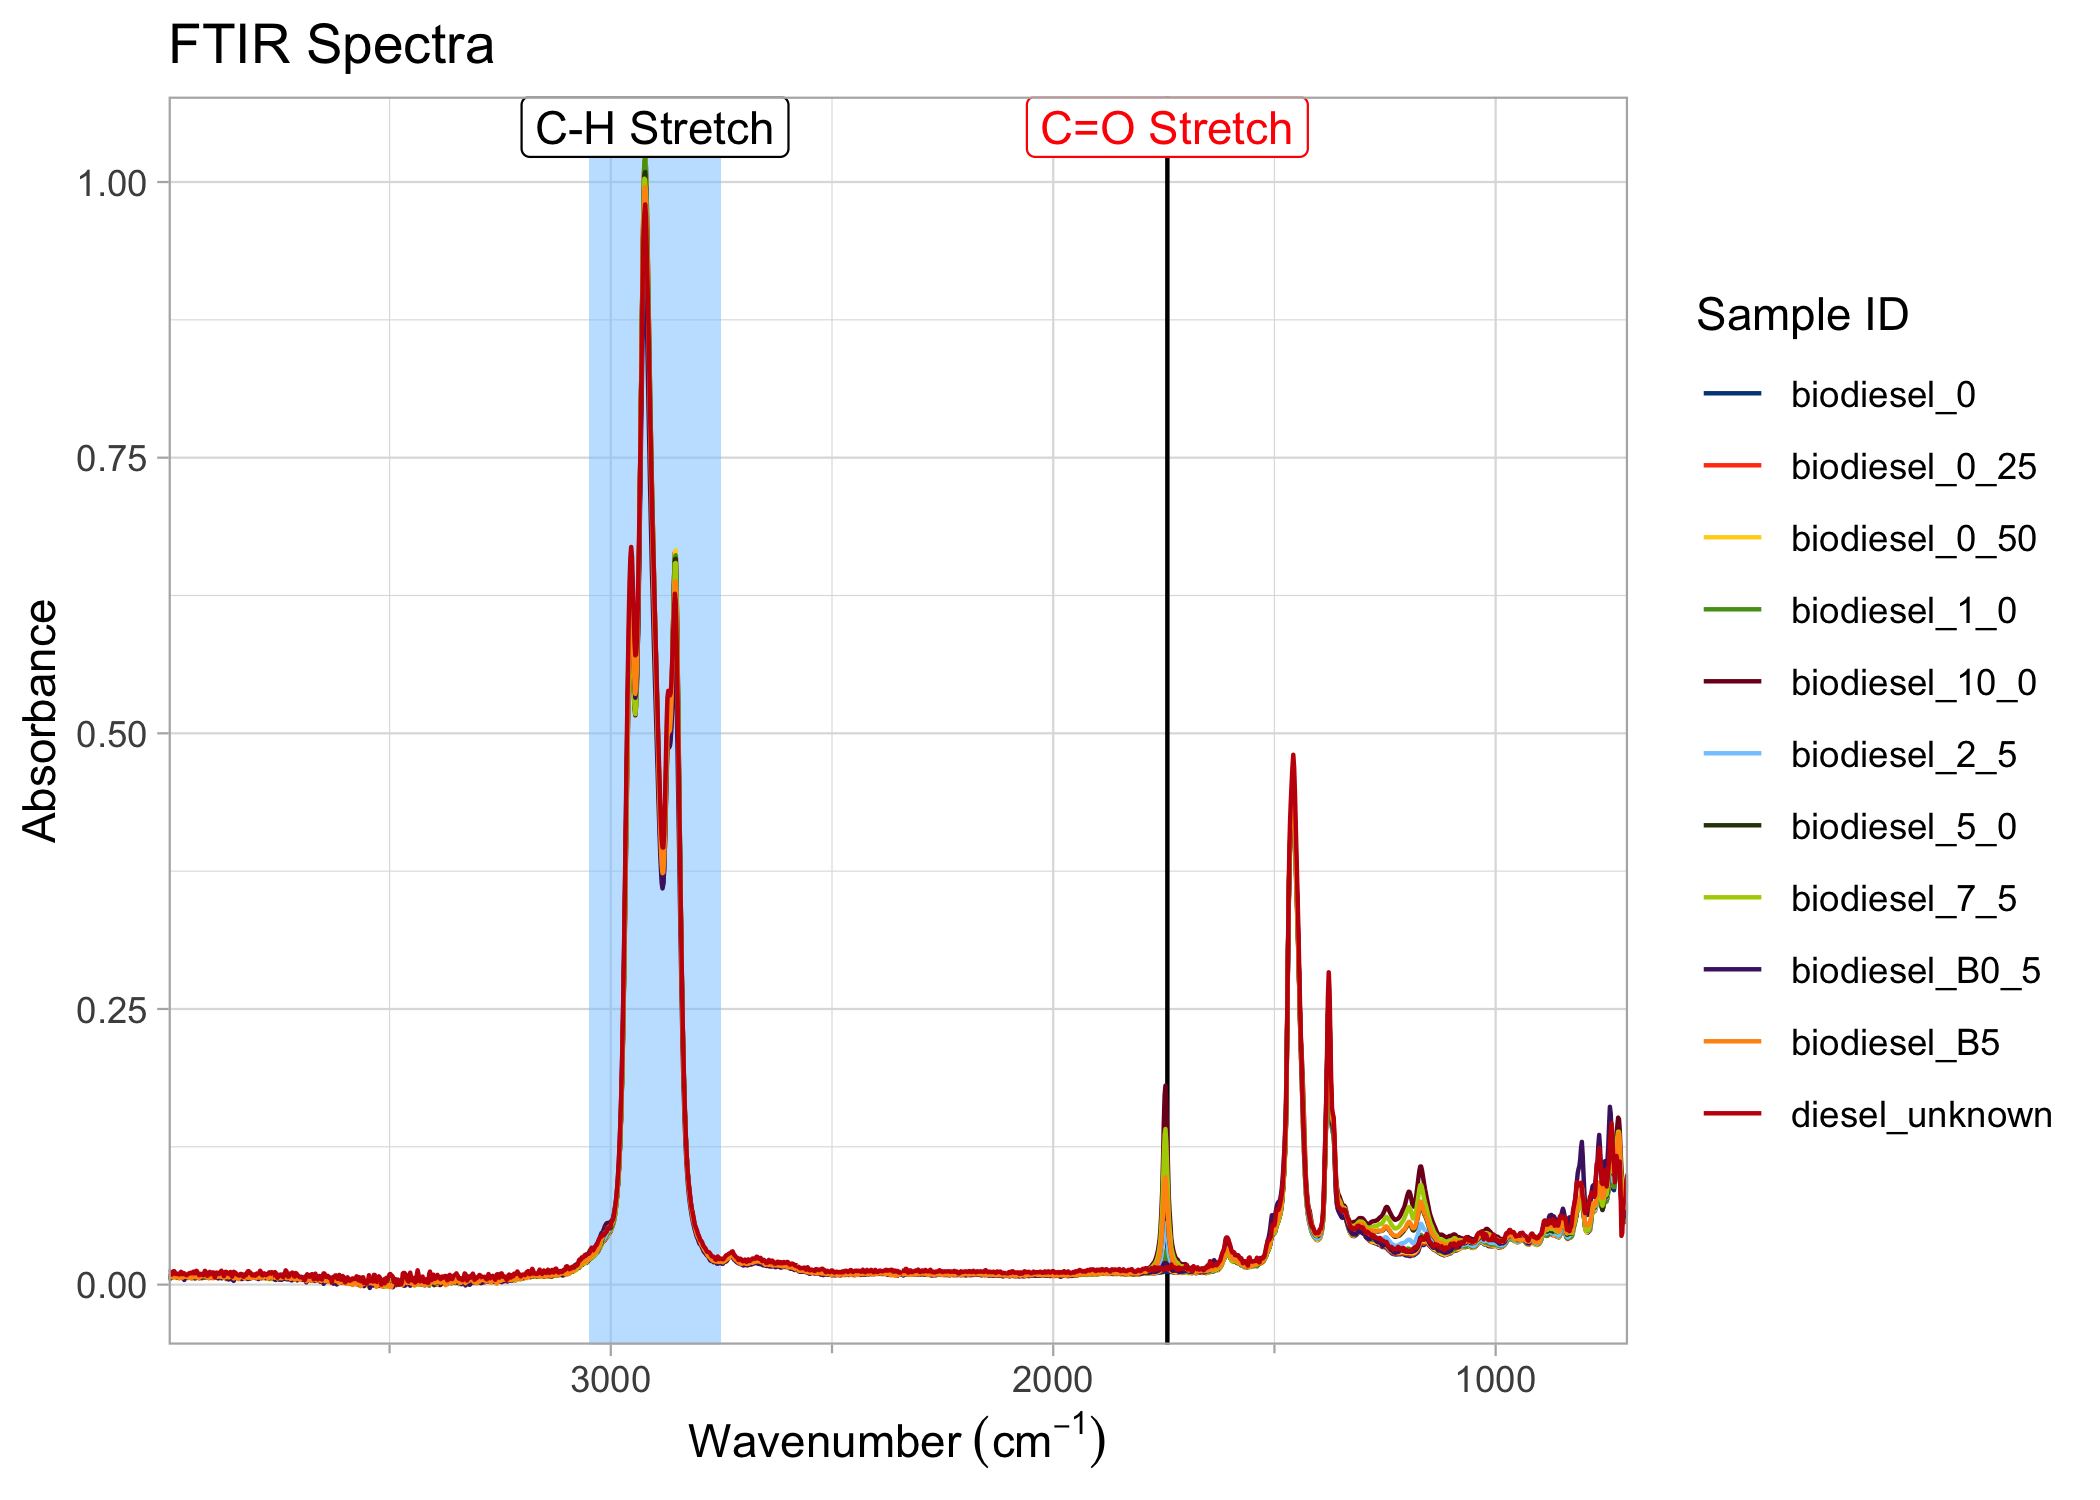
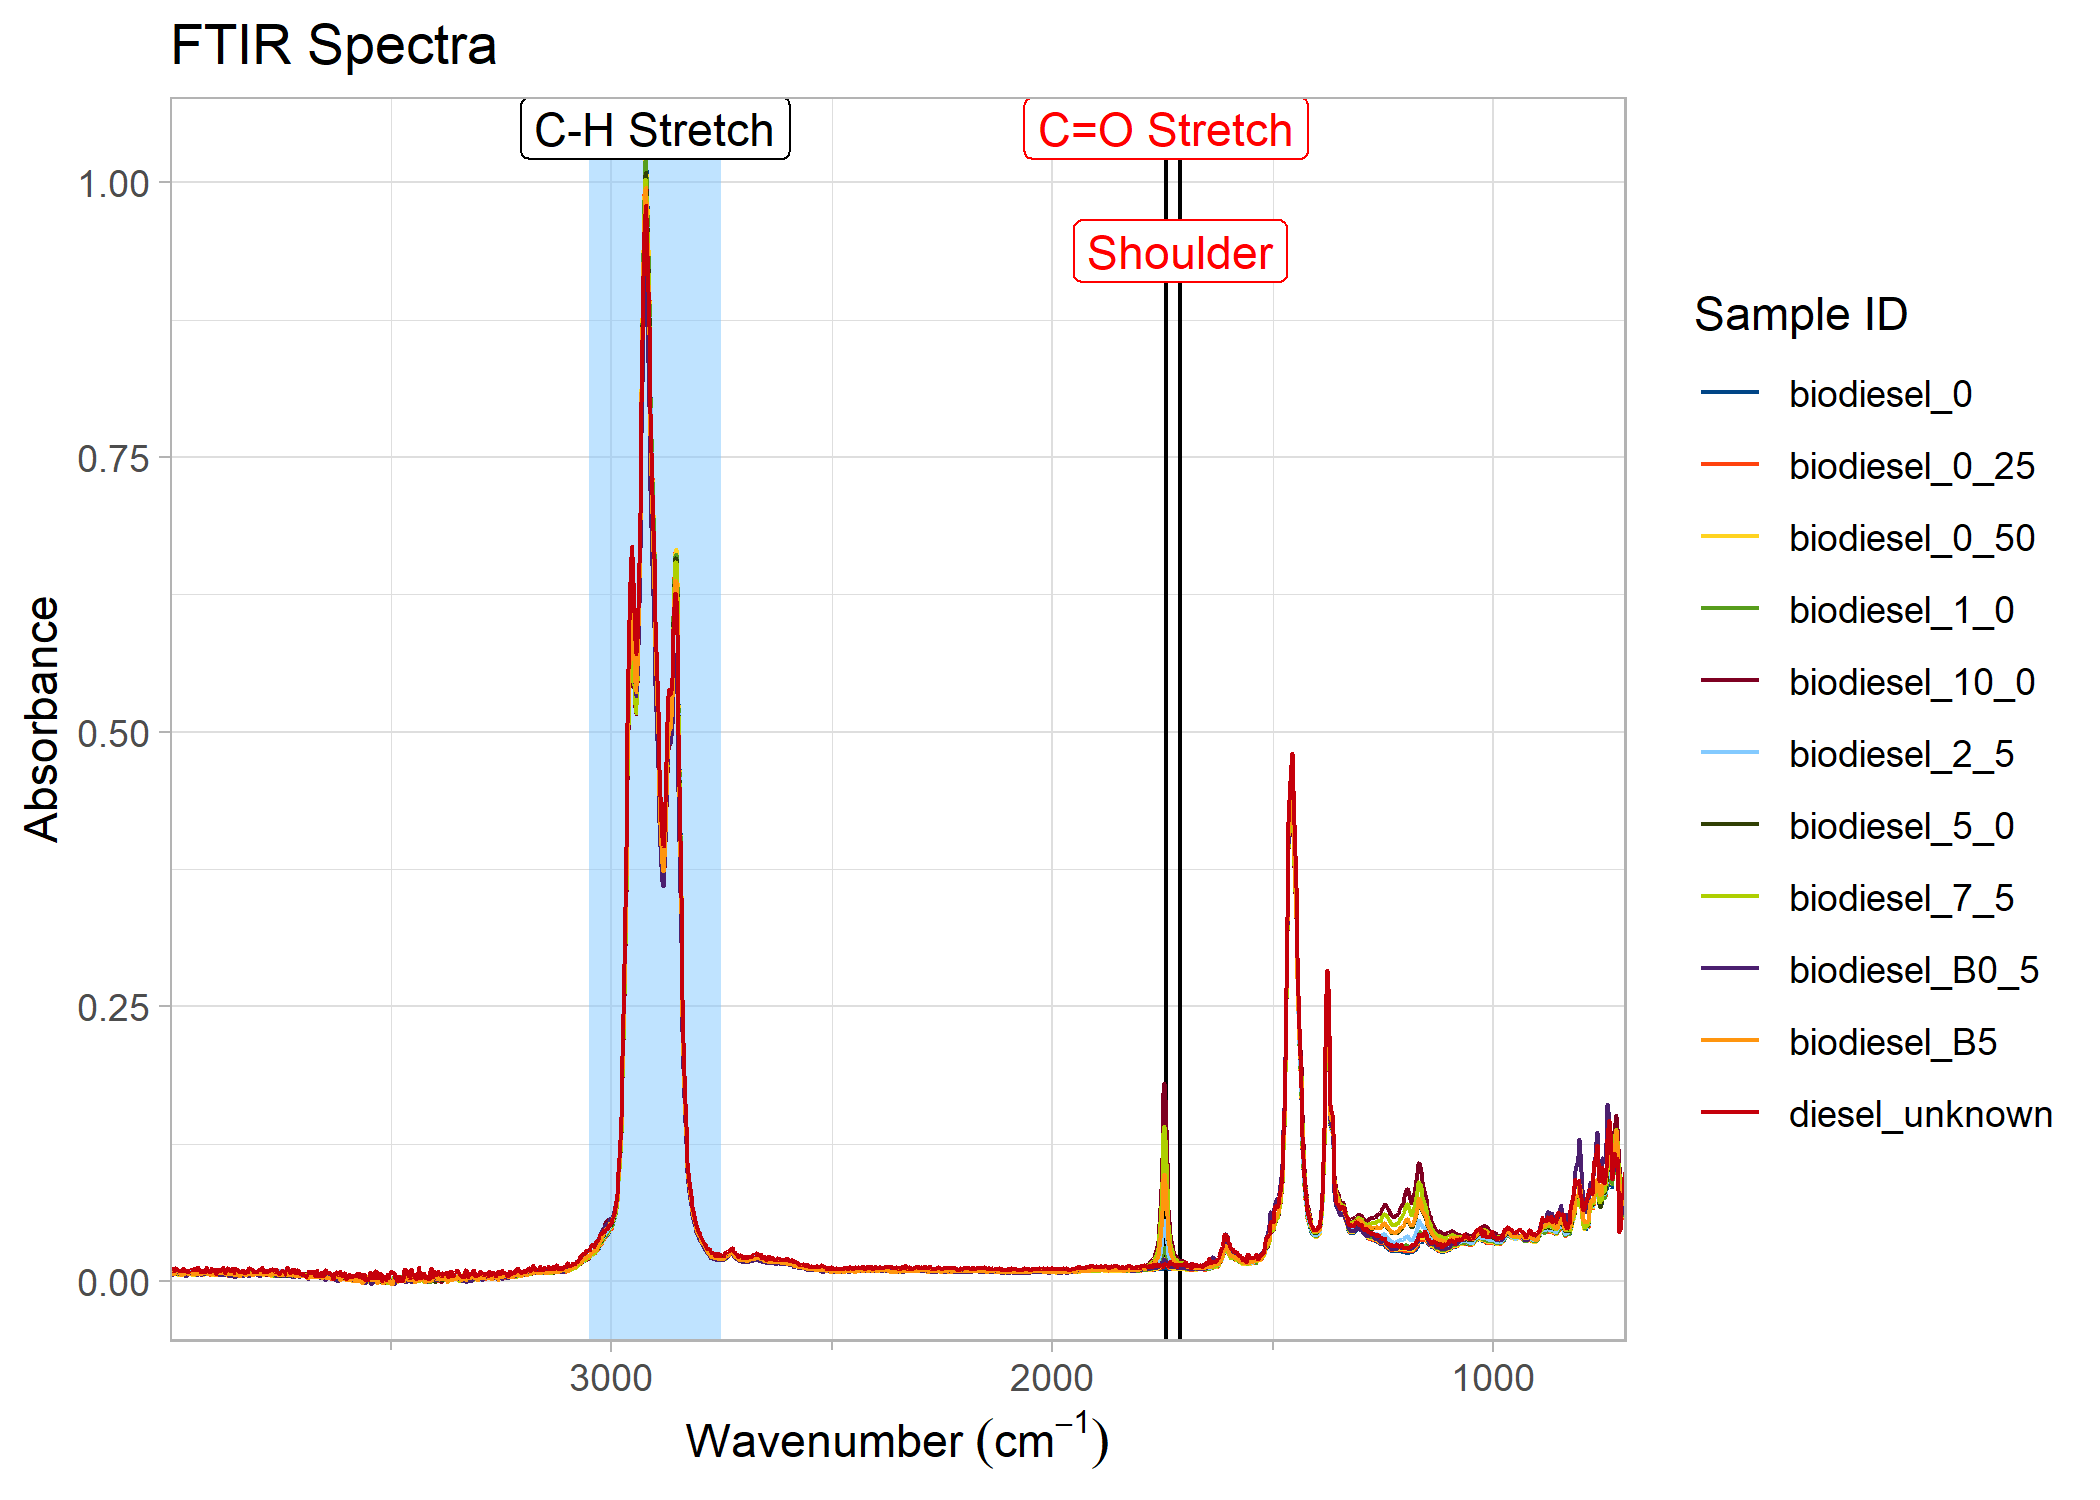
Respect custom vertical label offsets (#46)

diff --git a/README.md b/README.md
@@ -112,25 +112,35 @@ FTIR spectra of biodiesel samples, with low-energy region compressed.
 </div>
 
 You can also add marker lines (with labels) at specific wavenumbers on
-the plots, controlling their line or text properties as needed.
-Similarly, a shaded band can be added to indicate a region.
+the plots, controlling their line or text properties as needed. When
+labels are close together, you can align them vertically by adjusting
+`vjust` in `label_aesthetics`. Similarly, a shaded band can be added to
+indicate a region.
 
 ``` r
 biodiesel_marked <- add_wavenumber_marker(biodiesel_plot,
   wavenumber = 1742,
   text = "C=O Stretch",
   label_aesthetics = list("color" = "red")
-) 
+)
+
+biodiesel_marked <- add_wavenumber_marker(biodiesel_marked,
+  wavenumber = 1710,
+  text = "Shoulder",
+  label_aesthetics = list("color" = "red", "vjust" = 3)
+)
+
 add_band(biodiesel_marked, c(2750,3050), "C-H Stretch")
 ```
 
 <div class="figure">
 
-<img src="man/figures/README-biodiesel_labelled_en-1.png" alt="FTIR spectra of biodiesel samples, with a marker at 1742 cm-1 indicating C=O stretch, and a coloured band from 3050 to 2750 for C-H stretch." width="66.67%" />
+<img src="man/figures/README-biodiesel_labelled_en-1.png" alt="FTIR spectra of biodiesel samples, with vertically aligned peak labels at 1742 and 1710 cm-1 and a coloured band from 3050 to 2750 for C-H stretch." width="66.67%" />
 <p class="caption">
 
-FTIR spectra of biodiesel samples, with a marker at 1742 cm-1 indicating
-C=O stretch, and a coloured band from 3050 to 2750 for C-H stretch.
+FTIR spectra of biodiesel samples, with vertically aligned peak labels
+at 1742 and 1710 cm-1 and a coloured band from 3050 to 2750 for C-H
+stretch.
 </p>
 
 </div>
@@ -189,7 +199,7 @@ An example of the `biodiesel` data set is below:
 ``` r
 head(biodiesel)
 #> PlotFTIR data:
-#>   Spectral range: 700.7395 - 710.0579 cm⁻¹
+#>   Spectral range: 700.7395 - 710.0579 cm⁻¹ 
 #>   Resolution: variable
 #>   Intensity type: absorbance 
 #>   Number of samples: 1 
@@ -256,7 +266,7 @@ plotted. The functions `absorbance_to_transmittance()` and
 biodiesel_transm <- absorbance_to_transmittance(biodiesel)
 head(biodiesel_transm)
 #> PlotFTIR data:
-#>   Spectral range: 700.7395 - 710.0579 cm⁻¹
+#>   Spectral range: 700.7395 - 710.0579 cm⁻¹ 
 #>   Resolution: variable
 #>   Intensity type: transmittance 
 #>   Number of samples: 1 
@@ -286,8 +296,6 @@ subset_spectrum <- subset_spectrum[subset_spectrum$wavenumber < 2000 & subset_sp
 fitted <- fit_peaks(subset_spectrum, method = "voigt")
 
 plot_fit_ftir_peaks(ftir = subset_spectrum, fitted_peaks = fitted, plot_components = TRUE)
-#> Scale for colour is already present.
-#> Adding another scale for colour, which will replace the existing scale.
 #> Loading required namespace: gghighlight
 ```
 
@@ -336,14 +344,14 @@ citation("PlotFTIR")
 #> To cite package 'PlotFTIR' in publications use:
 #> 
 #>   Bulsink P (????). _PlotFTIR: Plot FTIR Spectra_. R package version
-#>   1.3.0.9000, <https://github.com/NRCan/PlotFTIR>.
+#>   1.3.1.9000, <https://github.com/NRCan/PlotFTIR>.
 #> 
 #> A BibTeX entry for LaTeX users is
 #> 
 #>   @Manual{,
 #>     title = {PlotFTIR: Plot FTIR Spectra},
 #>     author = {Philip Bulsink},
-#>     note = {R package version 1.3.0.9000},
+#>     note = {R package version 1.3.1.9000},
 #>     url = {https://github.com/NRCan/PlotFTIR},
 #>   }
 ```
@@ -462,26 +470,35 @@ Spectres FTIR d’échantillons de biodiesel, avec la région de basse
 
 Vous pouvez également ajouter des lignes de marqueur (avec des
 étiquettes) à des numéros d’onde spécifiques sur les tracés, en
-contrôlant leurs propriétés de ligne ou de texte selon vos besoins. De
-même, une bande ombrée peut être ajoutée pour indiquer une région.
+contrôlant leurs propriétés de ligne ou de texte selon vos besoins.
+Lorsque les étiquettes sont proches, vous pouvez les aligner
+verticalement en ajustant `vjust` dans `label_aesthetics`. De même, une
+bande ombrée peut être ajoutée pour indiquer une région.
 
 ``` r
 biodiesel_marked <- add_wavenumber_marker(biodiesel_trace,
   wavenumber = 1742,
   text = "C=O étirement",
   label_aesthetics = list("color" = "red")
-) 
+)
+
+biodiesel_marked <- add_wavenumber_marker(biodiesel_marked,
+  wavenumber = 1710,
+  text = "Épaule",
+  label_aesthetics = list("color" = "red", "vjust" = 3)
+)
+
 add_band(biodiesel_marked, c(2750,3050), "C-H étirement")
 ```
 
 <div class="figure">
 
-<img src="man/figures/README-biodiesel_labelled_fr-1.png" alt="Spectres FTIR d'échantillons de biodiesel, avec un marqueur à 1742 cm-1 indiquant l'élongation C=O et une bande colorée de 3050 à 2750 pour l'élongation C-H." width="66.67%" />
+<img src="man/figures/README-biodiesel_labelled_fr-1.png" alt="Spectres FTIR d'échantillons de biodiesel, avec des étiquettes de pics alignées verticalement à 1742 et 1710 cm-1, et une bande colorée de 3050 à 2750 pour l'élongation C-H." width="66.67%" />
 <p class="caption">
 
-Spectres FTIR d’échantillons de biodiesel, avec un marqueur à 1742 cm-1
-indiquant l’élongation C=O et une bande colorée de 3050 à 2750 pour
-l’élongation C-H.
+Spectres FTIR d’échantillons de biodiesel, avec des étiquettes de pics
+alignées verticalement à 1742 et 1710 cm-1, et une bande colorée de 3050
+à 2750 pour l’élongation C-H.
 </p>
 
 </div>
@@ -597,7 +614,7 @@ Un exemple de l’ensemble de données `biodiesel` est ci-dessous:
 ``` r
 head(biodiesel)
 #> PlotFTIR data:
-#>   Spectral range: 700.7395 - 710.0579 cm⁻¹
+#>   Spectral range: 700.7395 - 710.0579 cm⁻¹ 
 #>   Resolution: variable
 #>   Intensity type: absorbance 
 #>   Number of samples: 1 
@@ -615,7 +632,7 @@ et `transmittance_to_absorbance()` effectuent ces conversions.
 biodiesel_transm <- absorbance_to_transmittance(biodiesel)
 head(biodiesel_transm)
 #> PlotFTIR data:
-#>   Spectral range: 700.7395 - 710.0579 cm⁻¹
+#>   Spectral range: 700.7395 - 710.0579 cm⁻¹ 
 #>   Resolution: variable
 #>   Intensity type: transmittance 
 #>   Number of samples: 1 
@@ -646,8 +663,6 @@ subset_spectrum <- subset_spectrum[subset_spectrum$wavenumber < 2000 & subset_sp
 
 fitted <- fit_peaks(subset_spectrum, method = "voigt")
 plot_fit_ftir_peaks(ftir = subset_spectrum, fitted_peaks = fitted, plot_components = TRUE)
-#> Scale for colour is already present.
-#> Adding another scale for colour, which will replace the existing scale.
 ```
 
 <div class="figure">
@@ -698,14 +713,14 @@ citation("PlotFTIR")
 #> To cite package 'PlotFTIR' in publications use:
 #> 
 #>   Bulsink P (????). _PlotFTIR: Plot FTIR Spectra_. R package version
-#>   1.3.0.9000, <https://github.com/NRCan/PlotFTIR>.
+#>   1.3.1.9000, <https://github.com/NRCan/PlotFTIR>.
 #> 
 #> A BibTeX entry for LaTeX users is
 #> 
 #>   @Manual{,
 #>     title = {PlotFTIR: Plot FTIR Spectra},
 #>     author = {Philip Bulsink},
-#>     note = {R package version 1.3.0.9000},
+#>     note = {R package version 1.3.1.9000},
 #>     url = {https://github.com/NRCan/PlotFTIR},
 #>   }
 ```

diff --git a/NEWS.md b/NEWS.md
@@ -1,5 +1,7 @@
 # PlotFTIR (development version)
 
+* `add_wavenumber_marker()` and `add_band()` now respect `label_aesthetics = list(vjust = ...)` so peak labels can be vertically offset to reduce overlap (@pbulsink, #38).
+
 * `fit_peaks()` now documents explicit fitting controls and clarifies that automatic peak discovery is a heuristic starting point for fitting, not a validated deconvolution standard (#33).
 * Peak fitting functionality added with `find_ftir_peaks()`, `fit_peaks()`, and related functions. ([#33](https://github.com/NRCan/PlotFTIR/issues/33))
 * Added Raman spectral plotting with `plot_raman()`, `read_raman()`, and utilities for baseline correction, smoothing, and peak finding (#34).
